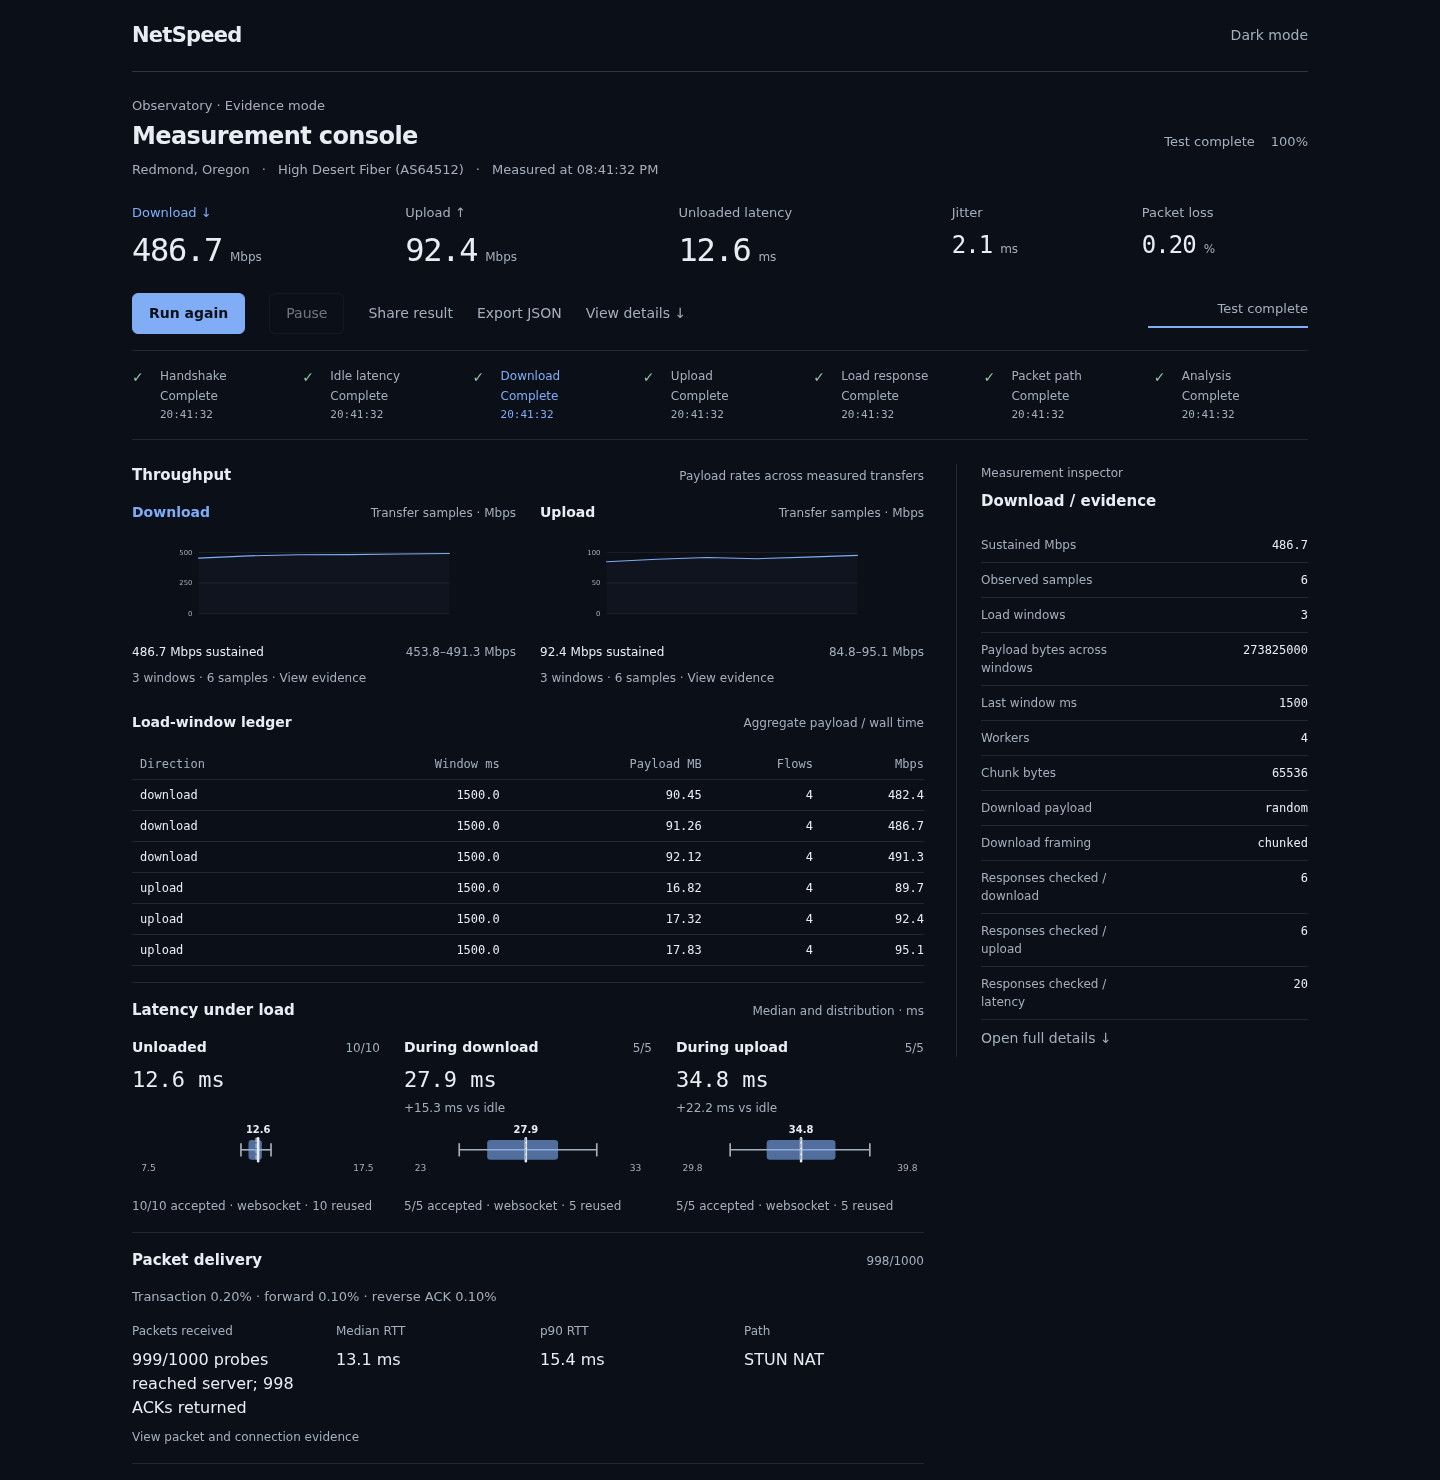
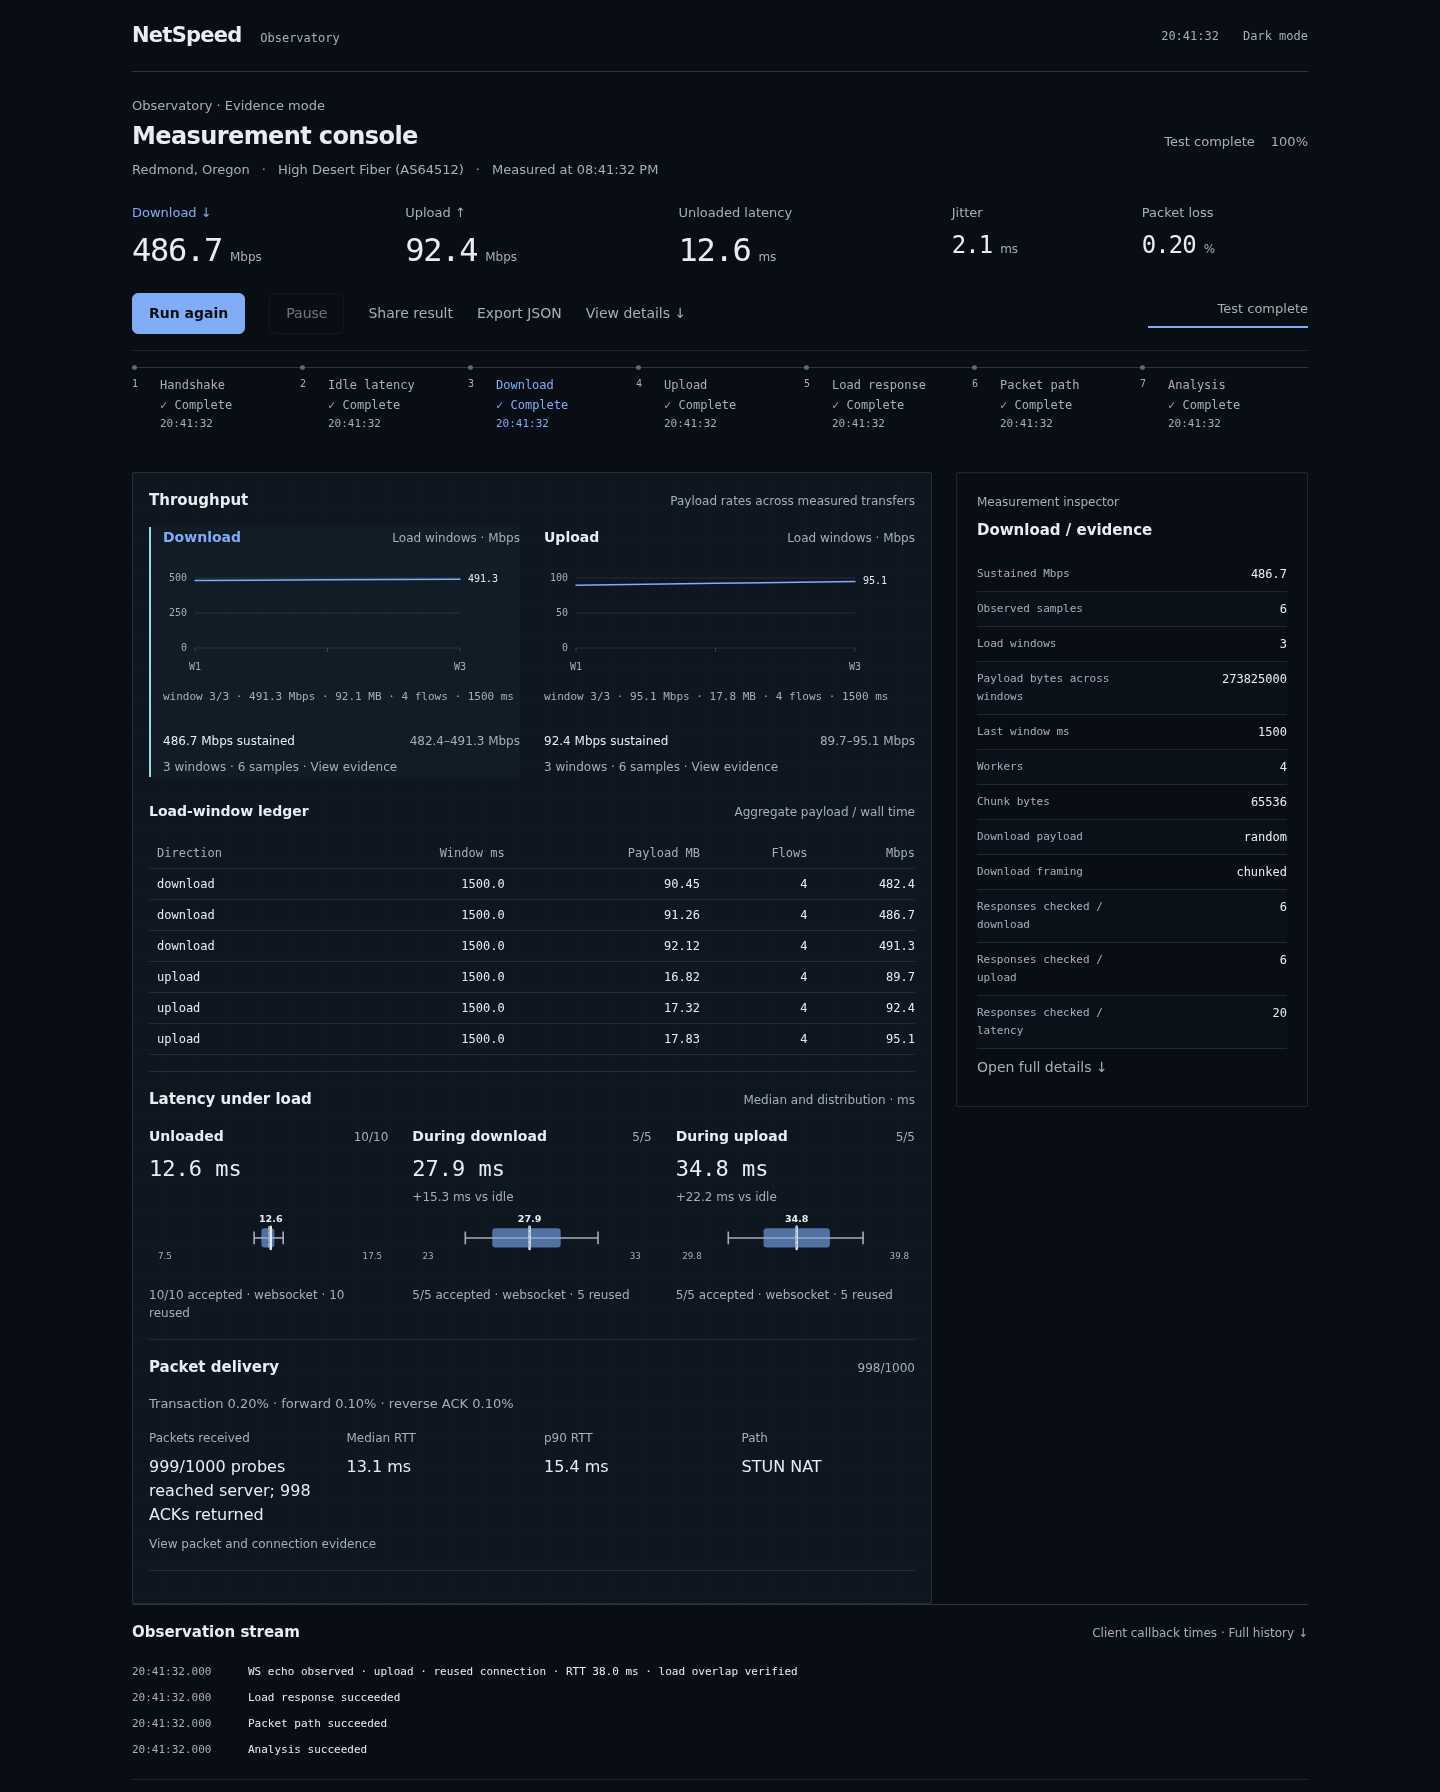
docs(web): refresh screenshots for material-identity redesign

diff --git a/README.md b/README.md
@@ -132,10 +132,11 @@ so the interface designs can be compared directly. Each image links to its
 corresponding HTML file.
 
 Standard and Observatory are captured at the same scale with their complete
-primary measurement regions in frame. Standard emphasizes the broad results
-summary; Observatory uses a compact readout, live load-window ledger, and a
-selected Download evidence inspector. These are the actual page layouts, not
-screenshot-only variants.
+primary measurement regions in frame. Standard uses an illuminated charcoal
+results surface, large tabular readings, and an observed-connection ribbon.
+Observatory uses a cooler gridded measurement plane, recessed Download evidence
+inspector, load-window ledger, and recorded-observation stream. These are the
+actual page layouts, not screenshot-only variants.
 
 Regenerate the images with `node scripts/capture_interfaces.mjs`. The capture
 harness sends a deterministic result through the same callbacks used by a live
@@ -145,11 +146,11 @@ paint substitute charts into the DOM.
 
 ### standard
 
-[![Standard Netspeed interface showing throughput, latency, jitter, and packet-loss results](web/screenshots/standard.png)](web/index.html)
+[![Standard Netspeed interface with illuminated results header, precise readings, and separate observed transport paths](web/screenshots/standard.png)](web/index.html)
 
 ### observatory
 
-[![Netspeed Observatory measurement console with compact readout, load-window ledger, and selected Download evidence inspector](web/screenshots/observatory.png)](web/alternate.html)
+[![Netspeed Observatory workstation with measurement grid, recessed evidence inspector, window ledger, and recorded-event timeline](web/screenshots/observatory.png)](web/alternate.html)
 
 ### phosphor
 
@@ -622,10 +623,11 @@ identify the selected provider, measurement contract, and packet topology.
 [`DESIGN_LANGUAGE.md`](DESIGN_LANGUAGE.md) is the canonical visual system,
 information hierarchy, and evidence-workspace specification for all three views.
 
-- **Standard** is the carrier-style default: a horizontal results header, quiet technical figures, one accent, and a collapsed evidence workspace.
-- **Observatory** shares Standard's visual system, but uses a compact instrument readout, visible load-window ledger, stage rail, and wider persistent measurement inspector. Download evidence is selected initially; select any measurement or stage to inspect its evidence.
+- **Standard** is the premium infrastructure default: a softly illuminated results surface, asymmetric tabular readings, a full-width status line, restrained blue Run control and traces, and a collapsed evidence workspace. Its connection ribbon keeps HTTP throughput, WebSocket RTT, and packet topology separate; it never implies that HTTP traffic traverses TURN.
+- **Observatory** is a cooler, denser measurement workstation: compact readout, faint measurement grid, state-machine timeline, recessed inspector, and visible window ledger. Select a measurement or stage to inspect its evidence; hover a throughput chart or use its arrow/Home/End keys to inspect an exact recorded sample and its window strip.
 - **Phosphor** is a monochrome fixed-cell terminal with selectable **80/132 columns**, character plots, square controls, and F1–F4/Escape navigation. It reflows on smaller screens instead of forcing horizontal scrolling. Its locally served [Glass TTY VT220 font](web/fonts/README.md) is a period reference, not a claim to emulate a particular machine.
 - All three use `web/js/layout.js` for the shared semantic layout and `web/js/evidence.js` for the same six-section evidence workspace. Full JSON retains telemetry that does not yet have a dedicated figure.
+- Browser JSON exports preserve `measurementEvents`: client progress-callback observations with `observedAt` timestamps and an explicit `source`, not inferred server events. Observatory shows four recent observations; Overview exposes full history. Compact shared links do not contain this history. Charts and completed readings do not animate on page load; reduced-motion mode removes live animation.
 - The progressive rail consumes structured measurement outcomes. A skipped capability remains `unavailable`, a failed operation remains `failed`, and final analysis never blanket-marks earlier work successful.
 - Presentation links retain the supported shared-result `r` parameter while discarding unrelated query state, so a shared measurement survives switching among Standard, Observatory, and Phosphor.
 
